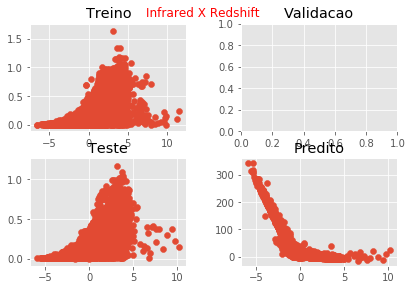
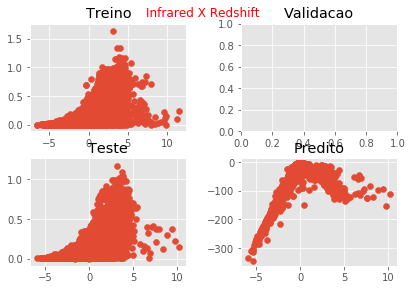
atualizando report

Changed region(s): [[0.5243, 0.5276, 0.9612, 0.931], [0.4951, 0.7448, 0.5825, 0.8069]]

diff --git a/jupyter/md/annXbnn/report.md b/jupyter/md/annXbnn/report.md
@@ -6,7 +6,7 @@
 |   |    |
 |----|----|
 | Pura| BN|
-|     0.2776203     |     727.85016 |
+|     0.2776203     |     1431.4874 |
 | Dropout | BN Dropout|
 |         0  |      0 |
 
@@ -89,58 +89,58 @@
 ````
 #### BN
 ````
-|     Real |     Predict |
-|----------+-------------|
-| 0.202258 |  -0.538581  |
-| 0.384286 |   3.0063    |
-| 0.033815 | 110.966     |
-| 0.635514 |   4.81582   |
-| 0.082844 |  29.965     |
-| 0.077451 |  -2.72872   |
-| 0.173062 |  -1.04489   |
-| 0.140931 |  -1.28106   |
-| 0.042802 | 112.537     |
-| 0.080199 |   2.35825   |
-| 0.159216 |  -0.19705   |
-| 0.275251 |  -0.183642  |
-| 0.137887 |  -1.30544   |
-| 0.242895 |  -2.91316   |
-| 0.085739 |  -0.878743  |
-| 0.167368 |  -0.552011  |
-| 0.049474 |   3.20408   |
-| 0.389837 |   1.81767   |
-| 0.175565 |  -0.301778  |
-| 0.12229  |   4.84008   |
-| 0.18369  |  -0.854689  |
-| 0.066047 |  25.4591    |
-| 0.101232 |   0.835889  |
-| 0.188021 |  -1.22809   |
-| 0.25487  |  11.3405    |
-| 0.088456 |   0.235237  |
-| 0.135544 |   0.941298  |
-| 0.333799 |   2.39497   |
-| 0.257815 |  -3.51992   |
-| 0.066265 |   5.72326   |
-| 0.085536 |  -1.06552   |
-| 0.380118 |   8.84658   |
-| 0.14705  |   0.503508  |
-| 0.503077 |   9.20986   |
-| 0.071456 |  -0.912182  |
-| 0.001909 |   2.37095   |
-| 0.146141 |  -1.91883   |
-| 0.343    |  -4.37219   |
-| 0.119272 |   2.32726   |
-| 0.073871 |  -1.12365   |
-| 0.334592 |  11.2388    |
-| 0.105794 |   0.136472  |
-| 0.095248 |  -0.604303  |
-| 0.193394 |  -0.410412  |
-| 0.047248 |  43.7643    |
-| 0.058266 |  12.738     |
-| 0.134502 |   0.0234727 |
-| 0.092814 |   0.571012  |
-| 0.115855 |   2.71558   |
-| 0.058798 |  -0.140805  |
+|     Real |    Predict |
+|----------+------------|
+| 0.202258 |   -9.91739 |
+| 0.384286 |  -21.7548  |
+| 0.033815 | -125.939   |
+| 0.635514 |  -67.6834  |
+| 0.082844 |  -54.3042  |
+| 0.077451 |  -22.731   |
+| 0.173062 |   -5.25784 |
+| 0.140931 |   -5.18774 |
+| 0.042802 | -127.798   |
+| 0.080199 |  -16.475   |
+| 0.159216 |   -6.59303 |
+| 0.275251 |  -14.1514  |
+| 0.137887 |   -4.74995 |
+| 0.242895 |  -31.913   |
+| 0.085739 |   -5.17864 |
+| 0.167368 |   -7.30798 |
+| 0.049474 |  -14.9451  |
+| 0.389837 |  -16.8362  |
+| 0.175565 |   -7.29279 |
+| 0.12229  |  -22.6214  |
+| 0.18369  |   -5.14014 |
+| 0.066047 |  -49.9622  |
+| 0.101232 |  -12.9396  |
+| 0.188021 |   -5.33908 |
+| 0.25487  |  -42.8379  |
+| 0.088456 |  -10.2003  |
+| 0.135544 |  -18.1423  |
+| 0.333799 |  -20.302   |
+| 0.257815 |  -47.3306  |
+| 0.066265 |  -24.2571  |
+| 0.085536 |   -5.88464 |
+| 0.380118 |  -24.8895  |
+| 0.14705  |   -6.91112 |
+| 0.503077 |  -46.2176  |
+| 0.071456 |   -5.45524 |
+| 0.001909 |  -33.3151  |
+| 0.146141 |   -8.12564 |
+| 0.343    |  -79.6855  |
+| 0.119272 |  -15.8262  |
+| 0.073871 |   -5.16124 |
+| 0.334592 |  -30.2784  |
+| 0.105794 |   -6.19228 |
+| 0.095248 |   -6.24208 |
+| 0.193394 |   -6.62492 |
+| 0.047248 |  -65.2878  |
+| 0.058266 |  -32.3127  |
+| 0.134502 |   -8.31716 |
+| 0.092814 |  -11.1091  |
+| 0.115855 |  -19.6269  |
+| 0.058798 |  -11.2346  |
 ````
 
 #### Dropout
